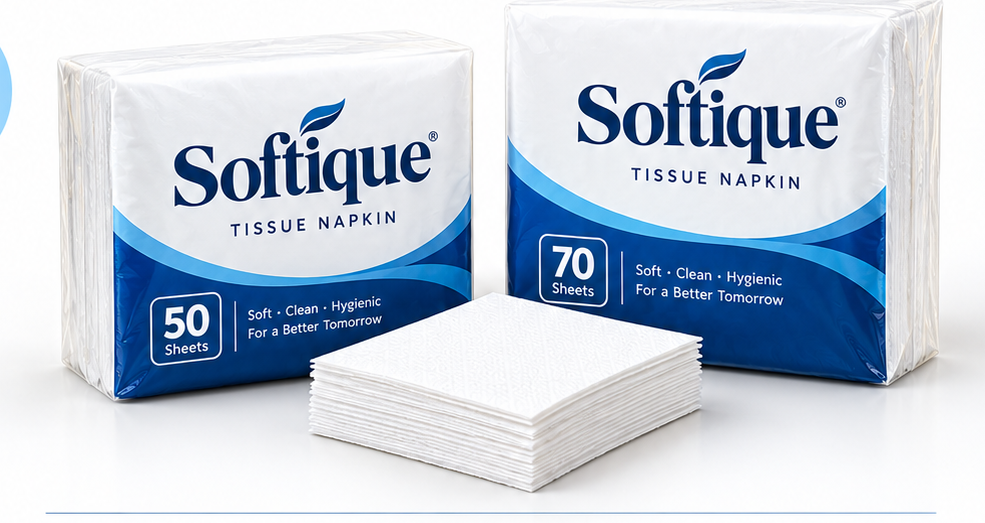
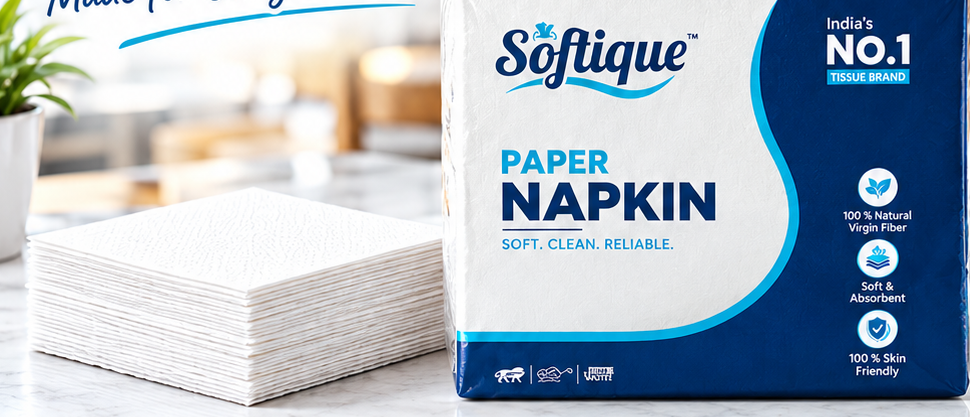
feat: replace packaging assets with exact user packaging design and update Hero and Showcase

diff --git a/src/sections/Hero.jsx b/src/sections/Hero.jsx
@@ -1,10 +1,38 @@
-import React from 'react';
-import { motion } from 'framer-motion';
-import { ArrowDown, ArrowUpRight, CheckCircle2, ShieldCheck, Sparkles, MapPin } from 'lucide-react';
+import React, { useState } from 'react';
+import { motion, AnimatePresence } from 'framer-motion';
+import { ArrowDown, ArrowUpRight, CheckCircle2, ShieldCheck, Sparkles, MapPin, Eye, Box } from 'lucide-react';
 import { siteConfig } from '../data/siteConfig';
 import Button from '../components/Button';
 
 export default function Hero() {
+  const [activeTab, setActiveTab] = useState('package'); // 'package' | 'packet' | 'dual'
+
+  const heroMedia = {
+    package: {
+      src: siteConfig.media.packageArtwork,
+      alt: "Softique Paper Napkin official front face packaging design - Soft. Clean. Reliable.",
+      title: "Official Packaging Design",
+      tag: "Exact Packaging Artwork",
+      note: "100% Virgin Fiber • Soft & Absorbent • 100% Skin Friendly",
+    },
+    packet: {
+      src: siteConfig.media.heroProduct,
+      alt: "Softique Paper Napkin 3D plastic sealed packet on dining table",
+      title: "Sealed 3D Plastic Packet",
+      tag: "Actual Product Photo",
+      note: "Hygienic Protective Poly Packet",
+    },
+    dual: {
+      src: siteConfig.media.heroDual,
+      alt: "Softique Napkin Tissue Paper - 50 and 70 sheets packets with embossed napkins",
+      title: "Pack & Napkin Presentation",
+      tag: "Hospitality Display",
+      note: "50 & 70 Sheets Packets with embossed napkins",
+    },
+  };
+
+  const currentMedia = heroMedia[activeTab];
+
   return (
     <section
       id="hero"
@@ -94,7 +122,7 @@ export default function Hero() {
                 size="lg"
                 className="w-full sm:w-auto shadow-md"
               >
-                Explore Our Product
+                Explore Packaging & Product
               </Button>
               <Button
                 href="#enquiry"
@@ -109,7 +137,7 @@ export default function Hero() {
 
           </div>
 
-          {/* Right Column: Authentic Real Product Photography Showcase */}
+          {/* Right Column: Authentic Packaging & Photography Showcase */}
           <div className="lg:col-span-5 relative mt-6 lg:mt-0">
             <motion.div
               initial={{ opacity: 0, scale: 0.95 }}
@@ -118,32 +146,76 @@ export default function Hero() {
               className="relative"
             >
               {/* Luxury Frame Container */}
-              <div className="relative rounded-3xl p-3 bg-gradient-to-b from-[#FFFFFF] via-[#FBF9F5] to-[#EDE7DB] border border-[#E3DC CE] shadow-2xl overflow-hidden group">
+              <div className="relative rounded-3xl p-3 bg-gradient-to-b from-[#FFFFFF] via-[#FBF9F5] to-[#EDE7DB] border border-[#E3DCCE] shadow-2xl overflow-hidden group">
                 
-                {/* Real Product Image */}
+                {/* View Switcher Tabs */}
+                <div className="flex items-center justify-between gap-1 p-1 mb-2 bg-[#F1EDE5] rounded-xl text-xs font-medium">
+                  <button
+                    type="button"
+                    onClick={() => setActiveTab('package')}
+                    className={`flex-1 py-1.5 px-2 rounded-lg transition-all text-center cursor-pointer ${
+                      activeTab === 'package'
+                        ? 'bg-white text-[#1C1E21] shadow-2xs font-semibold'
+                        : 'text-[#686256] hover:text-[#1C1E21]'
+                    }`}
+                  >
+                    Packaging Design
+                  </button>
+                  <button
+                    type="button"
+                    onClick={() => setActiveTab('packet')}
+                    className={`flex-1 py-1.5 px-2 rounded-lg transition-all text-center cursor-pointer ${
+                      activeTab === 'packet'
+                        ? 'bg-white text-[#1C1E21] shadow-2xs font-semibold'
+                        : 'text-[#686256] hover:text-[#1C1E21]'
+                    }`}
+                  >
+                    3D Packet
+                  </button>
+                  <button
+                    type="button"
+                    onClick={() => setActiveTab('dual')}
+                    className={`flex-1 py-1.5 px-2 rounded-lg transition-all text-center cursor-pointer ${
+                      activeTab === 'dual'
+                        ? 'bg-white text-[#1C1E21] shadow-2xs font-semibold'
+                        : 'text-[#686256] hover:text-[#1C1E21]'
+                    }`}
+                  >
+                    Table Display
+                  </button>
+                </div>
+
+                {/* Main Image Display */}
                 <div className="relative rounded-2xl overflow-hidden bg-white aspect-[4/3] flex items-center justify-center p-2">
-                  <img
-                    src={siteConfig.media.heroDual}
-                    alt="Softique Napkin Tissue Paper - 50 and 70 sheets plastic packets with embossed napkins"
-                    className="w-full h-full object-contain transition-transform duration-700 group-hover:scale-105"
-                    loading="eager"
-                  />
+                  <AnimatePresence mode="wait">
+                    <motion.img
+                      key={activeTab}
+                      initial={{ opacity: 0, scale: 0.97 }}
+                      animate={{ opacity: 1, scale: 1 }}
+                      exit={{ opacity: 0, scale: 0.97 }}
+                      transition={{ duration: 0.3 }}
+                      src={currentMedia.src}
+                      alt={currentMedia.alt}
+                      className="w-full h-full object-contain"
+                      loading="eager"
+                    />
+                  </AnimatePresence>
                   
                   {/* Subtle authentic product overlay tags */}
-                  <div className="absolute top-4 left-4 bg-white/90 backdrop-blur-md px-3 py-1 rounded-full border border-[#E6E0D5] text-[11px] font-medium text-[#1C1E21] shadow-xs flex items-center gap-1.5">
+                  <div className="absolute top-4 left-4 bg-white/95 backdrop-blur-md px-3 py-1 rounded-full border border-[#E6E0D5] text-[11px] font-medium text-[#1C1E21] shadow-xs flex items-center gap-1.5">
                     <span className="w-2 h-2 rounded-full bg-[#0E63B8]"></span>
-                    Actual Product Photograph
+                    {currentMedia.tag}
                   </div>
 
                   <div className="absolute bottom-4 right-4 bg-[#1C1E21]/90 backdrop-blur-md text-white px-3.5 py-1.5 rounded-full text-xs font-medium shadow-md">
-                    50 & 70 Sheets
+                    India's NO.1 Tissue Brand
                   </div>
                 </div>
 
                 {/* Micro caption under photo */}
                 <div className="mt-3 px-2 py-1 flex items-center justify-between text-xs text-[#6F695D]">
-                  <span className="font-serif italic text-sm text-[#1C1E21]">Softique Napkin Tissue</span>
-                  <span className="text-[11px] uppercase tracking-wider text-[#9E9585]">Sealed Plastic Packets</span>
+                  <span className="font-serif italic text-sm text-[#1C1E21]">{currentMedia.title}</span>
+                  <span className="text-[11px] uppercase tracking-wider text-[#9E9585]">100% Virgin Fiber</span>
                 </div>
               </div>
 
@@ -159,9 +231,9 @@ export default function Hero() {
                     <ShieldCheck className="w-5 h-5" />
                   </div>
                   <div>
-                    <div className="text-xs font-semibold text-[#1C1E21]">100% Virgin Fiber</div>
+                    <div className="text-xs font-semibold text-[#1C1E21]">Original Packaging Artwork</div>
                     <div className="text-[11px] text-[#636873] leading-snug mt-0.5">
-                      Soft texture, embossed absorbency, skin-friendly daily hygiene.
+                      Soft. Clean. Reliable. 100% Natural Virgin Fiber & Skin Friendly.
                     </div>
                   </div>
                 </div>
@@ -183,3 +255,4 @@ export default function Hero() {
     </section>
   );
 }
+

diff --git a/src/sections/ProductShowcase.jsx b/src/sections/ProductShowcase.jsx
@@ -11,22 +11,28 @@ export default function ProductShowcase() {
 
   const productImages = [
     {
-      title: 'Dual Packet Display',
-      subtitle: '50 & 70 Sheets Packets with embossed napkin stack',
-      src: siteConfig.media.heroDual,
-      badge: 'Actual Product Shot',
+      title: 'Packaging Design',
+      subtitle: 'Official Softique™ front face packaging artwork — India\'s No.1 Tissue Brand',
+      src: siteConfig.media.packageArtwork,
+      badge: 'Official Package Design',
     },
     {
-      title: 'Dining Table Setting',
-      subtitle: 'Real Softique packet in everyday hospitality presentation',
+      title: '3D Sealed Packet',
+      subtitle: 'Sealed hygienic plastic packet with official packaging artwork',
       src: siteConfig.media.heroProduct,
-      badge: 'Hospitality Context',
+      badge: 'Packaged Product',
+    },
+    {
+      title: 'Dual Pack & Napkins',
+      subtitle: '50 & 70 Sheets Packets displayed with embossed napkins',
+      src: siteConfig.media.heroDual,
+      badge: 'Pack & Presentation',
     },
     {
       title: 'Embossed Paper Texture',
       subtitle: 'Close-up detail of virgin fiber texture & border embossing',
       src: siteConfig.media.productDetail,
-      badge: 'Macro Detail',
+      badge: 'Paper Texture',
     },
   ];
 
@@ -74,7 +80,7 @@ export default function ProductShowcase() {
             </div>
 
             {/* Thumbnail Selectors */}
-            <div className="grid grid-cols-3 gap-3">
+            <div className="grid grid-cols-2 sm:grid-cols-4 gap-2.5">
               {productImages.map((img, idx) => (
                 <button
                   key={img.title}
@@ -246,3 +252,4 @@ export default function ProductShowcase() {
     </section>
   );
 }
+

diff --git a/src/sections/About.jsx b/src/sections/About.jsx
@@ -51,7 +51,7 @@ export default function About() {
           {/* Right Column: Narrative Story */}
           <div className="lg:col-span-7 flex flex-col items-start text-left">
             
-            <div className="inline-flex items-center gap-2 px-3.5 py-1.5 rounded-full text-xs font-medium tracking-wider uppercase mb-4 bg-[#EFECE4] text-[#6E6350] border border-[#E3DC CE]">
+            <div className="inline-flex items-center gap-2 px-3.5 py-1.5 rounded-full text-xs font-medium tracking-wider uppercase mb-4 bg-[#EFECE4] text-[#6E6350] border border-[#E3DCCE]">
               <span className="w-1.5 h-1.5 rounded-full bg-[#C5A880]"></span>
               About Our Company
             </div>
@@ -108,3 +108,4 @@ export default function About() {
     </section>
   );
 }
+

diff --git a/src/data/siteConfig.js b/src/data/siteConfig.js
@@ -213,6 +213,7 @@ export const siteConfig = {
   ],
 
   media: {
+    packageArtwork: "/images/softique-package.png",
     heroProduct: "/images/softique-product.jpg",
     heroDual: "/images/softique-product-dual.png",
     productDetail: "/images/softique-product-detail.jpg",
@@ -221,3 +222,4 @@ export const siteConfig = {
     logo: "/images/softique-logo.png",
   },
 };
+

diff --git a/src/sections/Contact.jsx b/src/sections/Contact.jsx
@@ -354,3 +354,4 @@ Message: ${formData.message || 'I am interested in napkin tissue paper supply.'}
     </section>
   );
 }
+

diff --git a/src/sections/WholesaleEnquiry.jsx b/src/sections/WholesaleEnquiry.jsx
@@ -273,3 +273,4 @@ Please provide ex-factory Rajkot quotation and dispatch availability.`;
     </section>
   );
 }
+

diff --git a/src/sections/Manufacturing.jsx b/src/sections/Manufacturing.jsx
@@ -150,3 +150,4 @@ export default function Manufacturing() {
     </section>
   );
 }
+

diff --git a/src/sections/WhySoftique.jsx b/src/sections/WhySoftique.jsx
@@ -75,3 +75,4 @@ export default function WhySoftique() {
     </section>
   );
 }
+

diff --git a/src/components/SectionHeading.jsx b/src/components/SectionHeading.jsx
@@ -66,3 +66,4 @@ export default function SectionHeading({
     </div>
   );
 }
+

diff --git a/src/components/Footer.jsx b/src/components/Footer.jsx
@@ -137,3 +137,4 @@ export default function Footer() {
     </footer>
   );
 }
+

diff --git a/src/components/Navbar.jsx b/src/components/Navbar.jsx
@@ -205,3 +205,4 @@ export default function Navbar() {
     </header>
   );
 }
+

diff --git a/src/components/Button.jsx b/src/components/Button.jsx
@@ -70,3 +70,4 @@ export default function Button({
     </button>
   );
 }
+
